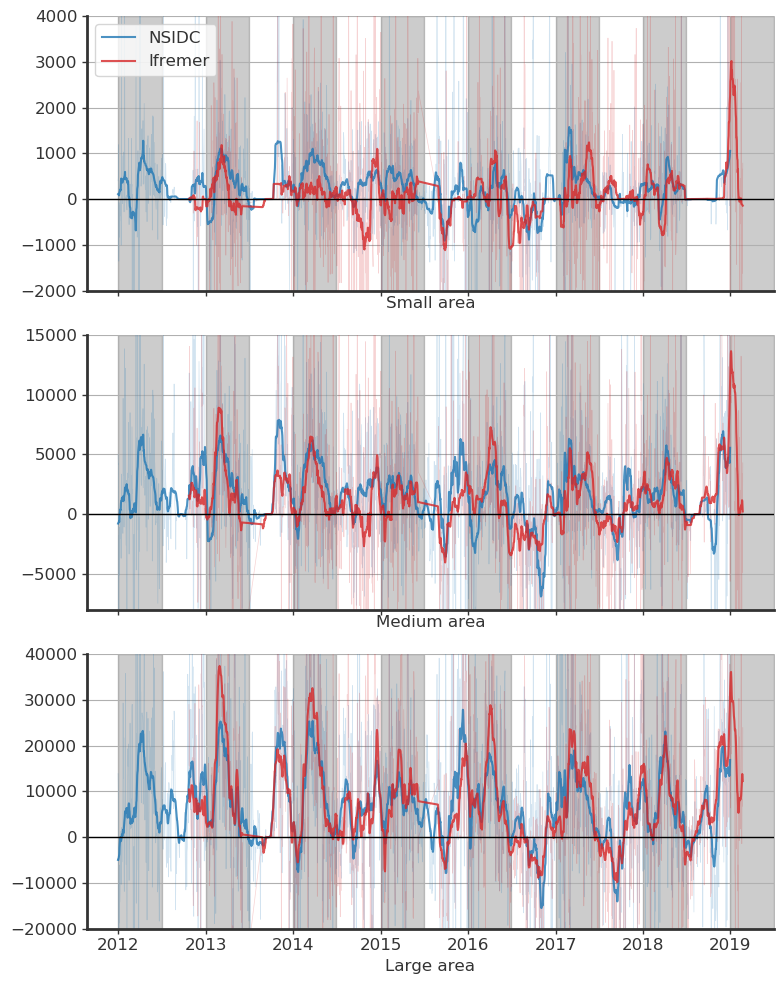
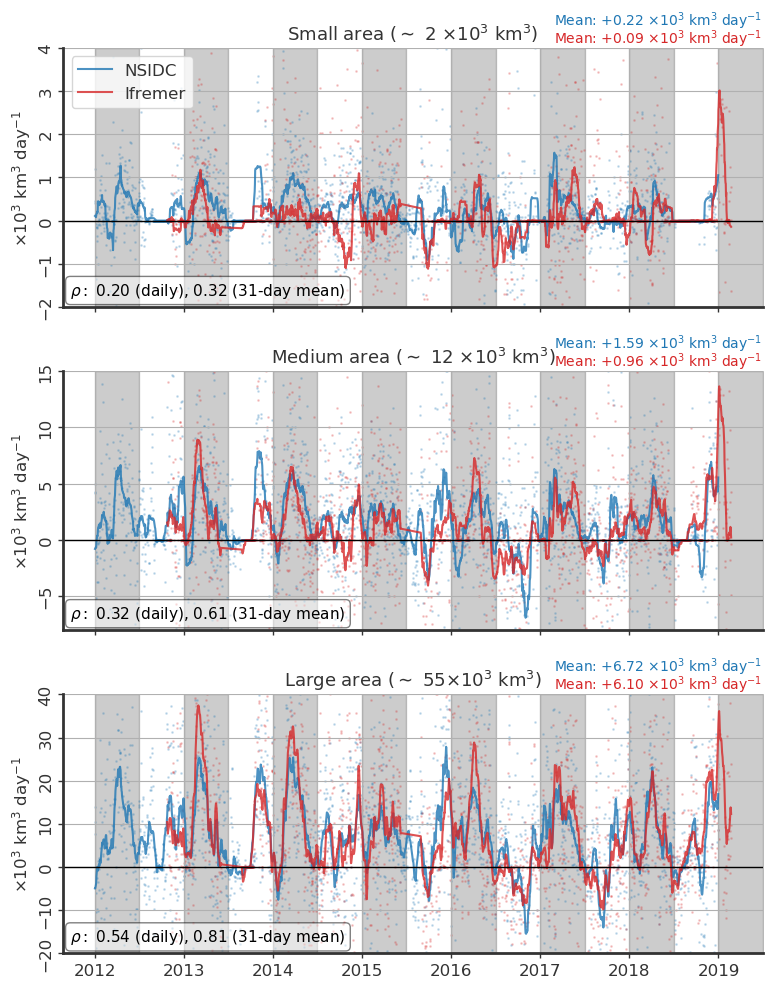
Updating sea ice drift comparison (nicer figure, more documentation).

diff --git a/9f19ac03e190caa194ca96d0551156034d5f335b/searchindex.js b/9f19ac03e190caa194ca96d0551156034d5f335b/searchindex.js
@@ -1,1 +1,1 @@
-Search.setIndex({docnames:["index","projects/argo_barents/argo_barents","projects/arven_etter_nansen/arven_etter_nansen","projects/atwain/annet/ao_index","projects/atwain/annet/mooring_location","projects/atwain/annet/mooring_ts","projects/atwain/annet/sea_ice_animation","projects/atwain/annet/sea_ice_drift","projects/atwain/annet/sea_ice_drift_compare","projects/atwain/annet/seaice_200m","projects/atwain/annet/seasonality","projects/atwain/annet/spectra_etc","projects/atwain/annet/svalbard_konferanse","projects/atwain/atwain","projects/atwain/data","projects/projects"],envversion:{"sphinx.domains.c":1,"sphinx.domains.changeset":1,"sphinx.domains.citation":1,"sphinx.domains.cpp":1,"sphinx.domains.javascript":1,"sphinx.domains.math":2,"sphinx.domains.python":1,"sphinx.domains.rst":1,"sphinx.domains.std":1,"sphinx.ext.intersphinx":1,"sphinx.ext.todo":1,sphinx:56},filenames:["index.rst","projects/argo_barents/argo_barents.rst","projects/arven_etter_nansen/arven_etter_nansen.rst","projects/atwain/annet/ao_index.rst","projects/atwain/annet/mooring_location.rst","projects/atwain/annet/mooring_ts.rst","projects/atwain/annet/sea_ice_animation.rst","projects/atwain/annet/sea_ice_drift.rst","projects/atwain/annet/sea_ice_drift_compare.rst","projects/atwain/annet/seaice_200m.rst","projects/atwain/annet/seasonality.rst","projects/atwain/annet/spectra_etc.rst","projects/atwain/annet/svalbard_konferanse.rst","projects/atwain/atwain.rst","projects/atwain/data.rst","projects/projects.rst"],objects:{},objnames:{},objtypes:{},terms:{"105db":14,"200m":14,"200m_point":9,"2015_2017deploy":14,"25x25":7,"28e":7,"31d":6,"31e":4,"35e":7,"3x3":7,"81n":[4,7],"82n":7,"\u00f8yvind":0,"abstract":13,"b\u00f8ye":1,"break":12,"default":7,"f\u00f8rste":1,"float":15,"forel\u00f8pig":14,"import":[],"long":12,"troms\u00f8":[],"try":[],"var":14,"while":[],For:0,Ice:[7,9],Near:9,The:[7,9,12],There:9,Using:9,_int:14,_int_1d:14,_sst:14,_sst_int:14,_sst_int_1d:14,about:[],across:7,adcp:14,addit:[7,9],advect:12,after:7,air:6,albert:9,all:[7,14],along:[7,12,13],also:[6,7,11,12],analysi:12,andvord:[],angelica:12,angelika:[],anim:13,answer:[],antarct:[],app:7,approxim:6,arctic:[12,13],area:[5,7,9],argo:15,arild:12,arrai:12,arven:15,ascat:7,ask:[],atlant:12,atmospher:12,atwain2012_allcats_process:14,atwain2013_microcats_interpolated_sst:14,atwain2015_microcats_interpolated_sst:14,atwain2015_microcats_process:14,atwain:[5,7,8,9,14],atwain_200m_latlon:[],atwain_datasets_overview:14,autumn:12,avail:7,averag:[5,7,11,14],avergag:11,avg:14,background:[],bai:[],band:11,barent:15,barentshavet:1,base:9,bathi:9,bathymetr:6,bathymetri:9,been:[7,12],befor:9,begynn:14,benefici:[],between:[4,5,6,7,9,11,12],bilinear:9,blit:14,blitt:14,bloom:[],both:[4,12],bottom:11,boundari:8,boxcar:9,broader:[],bruker:14,budget:7,bunch:9,calcul:7,cell:7,cersat:7,character:[],circul:[],coastal:[],code:[5,7,8,9,14],collabor:0,combine_curr:14,combined_adcp:14,compar:[12,13],compare_u_v_atwain:7,comparison:8,complex:11,compon:[7,11],comprehens:[],comput:11,concentr:[5,9,11],condit:[],confer:13,connect:[],contain:[0,9],content:[0,5,6],continent:12,contour:[6,13],contrast:[],coordin:[4,7],corner:7,correspond:12,could:5,couldn:4,cover:12,coverag:9,cpd:11,create_grid_box:[7,8],cross:6,cruis:4,ctd:14,ctd_105db_combin:14,current:[5,12],daacdata:7,dai:[7,9,11],daili:[6,7,9],dash:6,data:[7,8,9,13],dataset:[7,9],decad:12,deep:[],defin:7,define_box_area:7,denn:14,densiti:[5,11],dep:4,deploy:[9,13],depth:[5,6,11],despit:[],det:14,develop:12,differ:[5,11,13],difficult:9,direct:7,directli:9,diskrepans:14,distanc:9,diurnal:11,dmsp:9,doe:[],domain:7,domin:[],done:9,drift:[5,6,13],driven:12,driver:12,due:9,dure:13,dybd:14,each:7,earli:12,earlier:12,eas:7,eastward:12,ecosystem:[],edg:12,effect:[],eidam:[],either:9,eks:14,enclos:7,energet:[],enkel:14,enkelt:14,enkelttidsseri:14,environ:[],episod:[],era:6,error:5,estim:[7,8],etc:13,etopo1:[6,9],etter:15,european:12,evenli:7,event:12,evolut:11,exchang:[],fairli:7,fast:14,felten:14,fft:11,field:[7,9],figur:8,file:[8,9],filen:14,fill:7,filter:14,find:4,finn:14,first:[4,12],five:12,fjord:[],fjordeco:[],flow:[],flush:[],flux:12,folder:0,format:12,fra:14,franz:9,from:[4,6,7,9,11],ftp:7,full:9,gener:[8,9],geograph:7,gerlach:[],give:9,glacial:[],glacier:[],glacio:[],good:7,gradient:9,green:9,grid:[7,8,9,14],griddet:14,handpick:9,har:14,has:12,have:7,heat:[5,6,12],hele:14,home:[7,9],http:7,hver:14,hvor:14,hydrograph:12,ice:[5,11,12,13],ifrem:6,ifremer_bound_flux:7,imr:[],includ:0,indek:14,indic:7,infer:7,inflow:12,influenc:[],initi:13,inkludert:14,input:[],insid:[],instrument:14,integr:7,interannu:12,interest:[0,9],interim:6,interp:[7,8],interp_ifrem:7,interp_nsidc:7,interplai:12,interpolate_sic_onto_path:9,interpoler:14,interpolert:14,ipgrid:7,ipgrid_larg:8,ipgrid_mid:8,ipgrid_smal:8,isobath:9,isol:[],its:9,jevnt:14,josef:9,just:[],katabat:[],kikk:[1,14],kind:[],kombiner:14,kompanser:14,koordinat:[],kun:14,lack:[],lagret:[],land:9,larg:[8,9,12],largest:12,lat:[4,7,8],later:0,layer:[],left:9,legger:14,ligger:14,line:[4,6],litt:14,local:[7,9,12],locat:[6,7,9,13],lon:[4,7,8],longev:12,look:7,lower:7,lpfed:6,magnitud:7,mai:0,major:12,make:7,map:6,mappen:14,marin:[],mass:[],mat:14,match:7,materi:0,matris:14,matter:[],mean:7,med:14,medforfatt:[],mellom:14,melt:12,meltwat:[],ment:14,merg:7,meridian:7,meridion:7,microcat:14,mid:8,middl:11,midlertidig:14,might:[],min:14,miss:7,mix:12,monitor:12,moor:[6,7,9,12,13,14],mooring_t:5,moot:9,more:0,motion:7,nansen:15,nativ:7,need:4,net:[5,7,13],noen:14,north:[9,12],note:[4,5],now:0,npi:[],nsidc0116_icemotion_vectors_v4:7,nsidc:6,nsidc_bound_flux:7,nsidc_subset_atwain:9,number:9,observ:12,obtain:7,occasion:[],ocean:[5,6,12],oceanograph:[],oceanographi:[],onli:0,onto:[7,9],orang:6,order:7,org:7,other:[7,8,9],outsid:[],over:[11,12,14],overlap:11,overview:13,oyvindl:[7,9],oyweb:0,pack:12,page:0,parallel:7,partial:[],particular:12,pathfind:7,pdf:1,peninsula:[],peopl:[],perform:11,perioden:14,persist:12,person:0,physic:[],phytoplankton:[],pick_points_200m:9,plai:12,plot:[4,6,7,9],point:[7,9],polar:[7,9],poster:12,potenti:[],power:11,prefer:12,preliminari:5,presenc:12,present:[7,12],presenter:[],prevent:12,previou:[7,9],process:[5,12],processed_mooring_data:14,processing_and_data:[7,8,14],produc:7,product:[6,9],produser:14,profil:14,project:0,prosjekt:[],provid:[],psi:7,pub:7,punkt:14,q_curr_other_panel:5,q_vs_a:5,qualit:7,quantiti:6,question:[],quick:[4,5,8],rapport:1,read:4,real:9,rec:4,recent:12,record:6,recoveri:4,rectangular:7,red:[6,9],ref:4,refer:7,region:12,regridd:9,reinterpoler:14,rel:7,remot:9,remov:9,renner:[],report:4,resolusjon:14,result:7,retningen:14,retreat:12,rigg:[],riggen:14,right:9,ring:9,role:12,rotari:11,rotat:7,roughli:9,run:[7,14],rundt:14,runoff:[],samm:14,sammen:14,sammenheng:14,save:[7,9],scale:13,scienc:13,script:[5,7],sea:[5,11,12,13,15],sea_ice_concentr:9,sea_ice_drift:[7,8],season:[12,13],sec:9,second:9,see:5,semi:11,seminar:[],sensor:14,sep:4,separ:7,ser:14,seri:[6,13],session:12,set:7,sheet:[],shelf:12,shipboard:[],show:7,shown:[6,11],shrink:12,sic:[6,9],sic_200m_path:9,sim:11,similar:7,simpl:7,sinc:12,skal:[],skiften:14,slope:12,small:8,smooth:9,solid:[],som:14,some:12,sourc:[7,12],space:[7,9],span:[7,9],spectra:13,spectral:11,spectrogram:11,speed:11,spitsbergen:9,ssm:9,ssmi:[7,9],sst:14,state:13,stereograph:7,store:[7,9],strait:[],strong:[],struktur:14,subset:0,sum:7,summer:12,survei:[],svalbard:[9,13],talk:[],temperatur:6,term:[7,12],terrestri:[],therefor:9,thi:[0,4,5,7,9],think:[],three:8,through:7,tidal:[],tidewat:[],tidsseri:14,tidsserien:14,til:14,tillegg:14,time:[0,4,6,11,13],toktrapport:[],top:11,topic:[],total:9,transport:12,tre:14,twain:[6,15],two:4,unexplor:[],uniformt:14,updat:4,upper:[7,12],use:7,used:8,usikk:14,using:9,utplass:[],utplasseringen:14,valu:7,variabl:[12,14],variat:[],vector:[6,7],veloc:[7,11],vertic:[11,12],vertik:14,video:6,vist:14,warm:[],water:12,weak:[],were:7,west:9,western:[],what:[],where:[4,7],which:0,wide:12,wind:[6,7,11,12],window:[9,11],winter:12,within:[],work:[0,7,9,14],writeup:13,xesmf:9,xlsx:14,year:12,ziegler:[],zonal:7},titles:["oyvshare","Barents Sea ARGO float","Arven etter Nansen","AO and Arctic State","Mooring locations during the 3 deployments","Mooring time series, overview","Sea ice animation","Sea ice drift","Comparing net sea ice drift on different scales","Sea ice along the 200 m contour","Seasonality","Spectra, etc","Abstract, Svalbard Science Conference 2019","A-TWAIN","Data","Projects"],titleterms:{"abstract":12,"float":1,adcper:14,along:9,anim:6,annet:[],answer:[],arctic:3,argo:1,arven:2,averag:9,barent:1,boundari:7,box:7,compar:8,comparison:7,comput:7,confer:12,contour:9,cover:9,ctder:14,data:14,deploy:4,differ:8,drift:[7,8],dure:4,eidam:[],etc:11,etter:2,evolut:9,fjordeco:[],flux:7,ice:[6,7,8,9],ifrem:7,interpol:[7,9],locat:4,moor:[4,5],nansen:2,net:8,npi:[],nsidc:7,other:[],oversikt:14,overview:5,oyvshar:0,path:9,product:7,project:15,prosess:14,prosjekt:[],question:[],result:9,scale:8,scienc:12,sea:[1,6,7,8,9],season:10,seminar:[],seri:5,shear:11,spectra:11,state:3,subset:9,summari:[],svalbard:12,talk:[],time:[5,9],twain:13,utplass:14,ziegler:[]}})
+Search.setIndex({docnames:["index","projects/argo_barents/argo_barents","projects/arven_etter_nansen/arven_etter_nansen","projects/atwain/annet/ao_index","projects/atwain/annet/mooring_location","projects/atwain/annet/mooring_ts","projects/atwain/annet/sea_ice_animation","projects/atwain/annet/sea_ice_drift","projects/atwain/annet/sea_ice_drift_compare","projects/atwain/annet/seaice_200m","projects/atwain/annet/seasonality","projects/atwain/annet/spectra_etc","projects/atwain/annet/svalbard_konferanse","projects/atwain/atwain","projects/atwain/data","projects/projects"],envversion:{"sphinx.domains.c":1,"sphinx.domains.changeset":1,"sphinx.domains.citation":1,"sphinx.domains.cpp":1,"sphinx.domains.javascript":1,"sphinx.domains.math":2,"sphinx.domains.python":1,"sphinx.domains.rst":1,"sphinx.domains.std":1,"sphinx.ext.intersphinx":1,"sphinx.ext.todo":1,sphinx:56},filenames:["index.rst","projects/argo_barents/argo_barents.rst","projects/arven_etter_nansen/arven_etter_nansen.rst","projects/atwain/annet/ao_index.rst","projects/atwain/annet/mooring_location.rst","projects/atwain/annet/mooring_ts.rst","projects/atwain/annet/sea_ice_animation.rst","projects/atwain/annet/sea_ice_drift.rst","projects/atwain/annet/sea_ice_drift_compare.rst","projects/atwain/annet/seaice_200m.rst","projects/atwain/annet/seasonality.rst","projects/atwain/annet/spectra_etc.rst","projects/atwain/annet/svalbard_konferanse.rst","projects/atwain/atwain.rst","projects/atwain/data.rst","projects/projects.rst"],objects:{},objnames:{},objtypes:{},terms:{"105db":14,"200m":14,"200m_point":9,"2015_2017deploy":14,"25x25":7,"28e":7,"31d":6,"31e":4,"35e":7,"3x3":7,"81n":[4,7],"82n":7,"\u00f8yvind":0,"abstract":13,"b\u00f8ye":1,"break":12,"default":7,"f\u00f8rste":1,"float":15,"forel\u00f8pig":14,"import":[],"long":12,"troms\u00f8":[],"try":[],"var":14,"while":[],For:0,Ice:[7,9],Near:9,The:[7,9,12],There:9,Using:9,_int:14,_int_1d:14,_sst:14,_sst_int:14,_sst_int_1d:14,about:[],across:7,adcp:14,addit:[7,9],advect:12,after:[7,8],air:6,albert:9,all:[7,14],along:[7,12,13],also:[6,7,11,12],analysi:12,andvord:[],angelica:12,angelika:[],anim:13,answer:[],antarct:[],app:7,approxim:6,arctic:[12,13],area:[5,7,8,9],argo:15,arild:12,arrai:12,arven:15,ascat:7,ask:[],atlant:12,atmospher:12,atwain2012_allcats_process:14,atwain2013_microcats_interpolated_sst:14,atwain2015_microcats_interpolated_sst:14,atwain2015_microcats_process:14,atwain:[5,7,8,9,14],atwain_200m_latlon:[],atwain_datasets_overview:14,autumn:12,avail:7,averag:[5,7,11,14],avergag:11,avg:14,background:[],bai:[],band:11,barent:15,barentshavet:1,base:9,bathi:9,bathymetr:6,bathymetri:9,been:[7,12],befor:9,begynn:14,benefici:[],between:[4,5,6,7,9,11,12],bilinear:9,blit:14,blitt:14,bloom:[],blue:8,both:[4,12],bottom:11,boundari:8,boxcar:9,broader:[],bruker:14,budget:7,bunch:9,calcul:7,cell:7,cersat:7,character:[],circul:[],coastal:[],code:[5,7,8,9,14],collabor:0,combine_curr:14,combined_adcp:14,compar:[12,13],compare_thre:8,compare_u_v_atwain:7,comparison:8,complex:11,compon:[7,11],comprehens:[],comput:[8,11],concentr:[5,9,11],condit:[],confer:13,connect:[],contain:[0,9],content:[0,5,6],continent:12,contour:[6,13],contrast:[],coordin:[4,7],corner:7,correl:8,correspond:12,could:5,couldn:4,cover:12,coverag:9,cpd:11,create_grid_box:[7,8],cross:6,cruis:4,ctd:14,ctd_105db_combin:14,current:[5,12],daacdata:7,dai:[7,9,11],daili:[6,7,9],dash:6,data:[7,8,9,13],dataset:[7,9],decad:12,deep:[],defin:7,define_box_area:7,denn:14,densiti:[5,11],dep:4,deploy:[9,13],depth:[5,6,11],despit:[],det:14,develop:12,differ:[5,11,13],difficult:9,direct:7,directli:9,diskrepans:14,distanc:9,diurnal:11,dmsp:9,doe:[],domain:7,domin:[],done:9,drift:[5,6,13],driven:12,driver:12,due:9,dure:13,dybd:14,each:7,earli:12,earlier:12,eas:7,eastward:12,ecosystem:[],edg:12,effect:[],eidam:[],either:9,eks:14,enclos:7,energet:[],enkel:14,enkelt:14,enkelttidsseri:14,environ:[],episod:[],era:6,error:5,estim:[7,8],etc:13,etopo1:[6,9],etter:15,european:12,evenli:7,event:12,evolut:11,exchang:[],fairli:7,fast:14,felten:14,fft:11,field:[7,9],figur:8,file:[8,9],filen:14,fill:7,filter:14,find:4,finn:14,first:[4,12],five:12,fjord:[],fjordeco:[],flow:[],flush:[],flux:[8,12],folder:0,format:12,fra:14,franz:9,from:[4,6,7,9,11],ftp:7,full:9,gener:[8,9],geograph:7,gerlach:[],give:9,glacial:[],glacier:[],glacio:[],good:7,gradient:9,green:9,grid:[7,8,9,14],griddet:14,handpick:9,har:14,has:12,have:7,heat:[5,6,12],hele:14,home:[7,9],http:7,hver:14,hvor:14,hydrograph:12,ice:[5,11,12,13],ifrem:[6,8],ifremer_bound_flux:7,imr:[],includ:0,indek:14,indic:7,infer:7,inflow:12,influenc:[],initi:13,inkludert:14,input:[],insid:[],instrument:14,integr:7,interannu:12,interest:[0,9],interim:6,interp:[7,8],interp_ifrem:7,interp_nsidc:7,interplai:12,interpol:8,interpolate_sic_onto_path:9,interpoler:14,interpolert:14,ipgrid:7,ipgrid_larg:8,ipgrid_mid:8,ipgrid_smal:8,isobath:9,isol:[],its:9,jevnt:14,josef:9,just:[],katabat:[],kikk:[1,14],kind:[],kombiner:14,kompanser:14,koordinat:[],kun:14,lack:[],lagret:[],land:9,larg:[8,9,12],largest:12,lat:[4,7,8],later:0,layer:[],left:9,legger:14,ligger:14,line:[4,6],litt:14,local:[7,9,12],locat:[6,7,9,13],lon:[4,7,8],longev:12,look:7,lower:7,lpfed:6,magnitud:7,mai:0,major:12,make:7,map:6,mappen:14,marin:[],mass:[],mat:14,match:7,materi:0,matris:14,matter:[],mean:[7,8],med:14,medforfatt:[],mellom:14,melt:12,meltwat:[],ment:14,merg:7,meridian:7,meridion:7,microcat:14,mid:8,middl:11,midlertidig:14,might:[],min:14,miss:7,mix:12,monitor:12,moor:[6,7,9,12,13,14],mooring_t:5,moot:9,more:0,motion:7,nansen:15,nativ:7,need:4,net:[5,7,13],noen:14,north:[9,12],note:[4,5],now:0,npi:[],nsidc0116_icemotion_vectors_v4:7,nsidc:[6,8],nsidc_bound_flux:7,nsidc_subset_atwain:9,number:9,observ:12,obtain:7,occasion:[],ocean:[5,6,12],oceanograph:[],oceanographi:[],onli:0,onto:[7,8,9],orang:6,order:7,org:7,other:[7,8,9],outsid:[],over:[11,12,14],overlap:11,overview:13,oyvindl:[7,9],oyweb:0,pack:12,page:0,parallel:7,partial:[],particular:12,pathfind:7,pdf:1,peninsula:[],peopl:[],perform:11,perioden:14,persist:12,person:0,physic:[],phytoplankton:[],pick_points_200m:9,plai:12,plot:[4,6,7,9],point:[7,9],polar:[7,9],poster:12,potenti:[],power:11,prefer:12,preliminari:5,presenc:12,present:[7,12],presenter:[],prevent:12,previou:[7,9],process:[5,12],processed_mooring_data:14,processing_and_data:[7,8,14],produc:7,product:[6,8,9],produser:14,profil:14,project:0,prosjekt:[],provid:[],psi:7,pub:7,punkt:14,q_curr_other_panel:5,q_vs_a:5,qualit:7,quantiti:6,question:[],quick:[4,5,8],quick_compare_thre:8,rapport:1,read:4,real:9,rec:4,recent:12,record:6,recoveri:4,rectangular:7,red:[6,8,9],ref:4,refer:7,region:12,regridd:9,reinterpoler:14,rel:7,remot:9,remov:9,renner:[],report:4,resolusjon:14,result:7,retningen:14,retreat:12,rigg:[],riggen:14,right:9,ring:9,role:12,rotari:11,rotat:7,roughli:9,run:[7,14],rundt:14,runoff:[],same:8,samm:14,sammen:14,sammenheng:14,save:[7,9],scale:13,scienc:13,script:[5,7],sea:[5,11,12,13,15],sea_ice_concentr:9,sea_ice_drift:[7,8],season:[12,13],sec:9,second:9,see:5,semi:11,seminar:[],sensor:14,sep:4,separ:7,ser:14,seri:[6,13],session:12,set:7,sheet:[],shelf:12,shipboard:[],show:7,shown:[6,11],shrink:12,sic:[6,9],sic_200m_path:9,sid:8,sim:11,similar:7,simpl:7,sinc:12,skal:[],skiften:14,slope:12,small:8,smooth:9,solid:[],som:14,some:12,sourc:[7,12],space:[7,9],span:[7,9],spectra:13,spectral:11,spectrogram:11,speed:11,spitsbergen:9,ssm:9,ssmi:[7,9],sst:14,state:13,stereograph:7,store:[7,9],strait:[],strong:[],struktur:14,subset:0,sum:7,summer:12,survei:[],svalbard:[9,13],talk:[],temperatur:6,term:[7,12],terrestri:[],therefor:9,thi:[0,4,5,7,9],think:[],three:8,through:7,tidal:[],tidewat:[],tidsseri:14,tidsserien:14,til:14,tillegg:14,time:[0,4,6,8,11,13],toktrapport:[],top:11,topic:[],total:9,transport:12,tre:14,twain:[6,15],two:4,unexplor:[],uniformt:14,updat:4,upper:[7,12],use:7,used:8,usikk:14,using:[8,9],utplass:[],utplasseringen:14,valu:7,variabl:[12,14],variat:[],vector:[6,7],veloc:[7,11],vertic:[11,12],vertik:14,video:6,vist:14,warm:[],water:12,weak:[],were:7,west:9,western:[],what:[],where:[4,7],which:0,wide:12,wind:[6,7,11,12],window:[9,11],winter:12,within:[],work:[0,7,9,14],writeup:13,xesmf:9,xlsx:14,year:12,ziegler:[],zonal:7},titles:["oyvshare","Barents Sea ARGO float","Arven etter Nansen","AO and Arctic State","Mooring locations during the 3 deployments","Mooring time series, overview","Sea ice animation","Sea ice drift","Comparing net sea ice drift on different scales","Sea ice along the 200 m contour","Seasonality","Spectra, etc","Abstract, Svalbard Science Conference 2019","A-TWAIN","Data","Projects"],titleterms:{"abstract":12,"float":1,adcper:14,along:9,anim:6,annet:[],answer:[],arctic:3,argo:1,arven:2,averag:9,barent:1,boundari:7,box:7,compar:8,comparison:7,comput:7,confer:12,contour:9,cover:9,ctder:14,data:14,deploy:4,differ:8,drift:[7,8],dure:4,eidam:[],etc:11,etter:2,evolut:9,fjordeco:[],flux:7,ice:[6,7,8,9],ifrem:7,interpol:[7,9],locat:4,moor:[4,5],nansen:2,net:8,npi:[],nsidc:7,other:[],oversikt:14,overview:5,oyvshar:0,path:9,product:7,project:15,prosess:14,prosjekt:[],question:[],result:9,scale:8,scienc:12,sea:[1,6,7,8,9],season:10,seminar:[],seri:5,shear:11,spectra:11,state:3,subset:9,summari:[],svalbard:12,talk:[],time:[5,9],twain:13,utplass:14,ziegler:[]}})

diff --git a/9f19ac03e190caa194ca96d0551156034d5f335b/projects/atwain/annet/sea_ice_drift_compare.html b/9f19ac03e190caa194ca96d0551156034d5f335b/projects/atwain/annet/sea_ice_drift_compare.html
@@ -63,8 +63,14 @@ the grids, and the figure:
 </pre></div>
 </div>
 <div class="figure align-default" id="id2">
-<a class="reference internal image-reference" href="../../../_images/compare_net_sid_three.png"><img alt="../../../_images/compare_net_sid_three.png" src="../../../_images/compare_net_sid_three.png" style="width: 627.2px; height: 787.2px;" /></a>
-<p class="caption"><span class="caption-text">Quick comparison.</span><a class="headerlink" href="#id2" title="Permalink to this image">¶</a></p>
+<a class="reference internal image-reference" href="../../../_images/compare_net_sid_three.png"><img alt="../../../_images/compare_net_sid_three.png" src="../../../_images/compare_net_sid_three.png" style="width: 617.6px; height: 790.4000000000001px;" /></a>
+<p class="caption"><span class="caption-text">Quick comparison of net ice flux into the three areas using NSIDC (<em>blue</em>) and
+Ifremer (<em>red</em>) products.</span><a class="headerlink" href="#id2" title="Permalink to this image">¶</a></p>
+<div class="legend">
+<p>Correlations and means are computed after interpolating the data interpolated onto the same time
+grid (23.10.12 to 30.12.18).</p>
+<p>Code: <code class="docutils literal notranslate"><span class="pre">atwain/code/sid/compare_three/quick_compare_three.py</span></code></p>
+</div>
 </div>
 </div>
 
